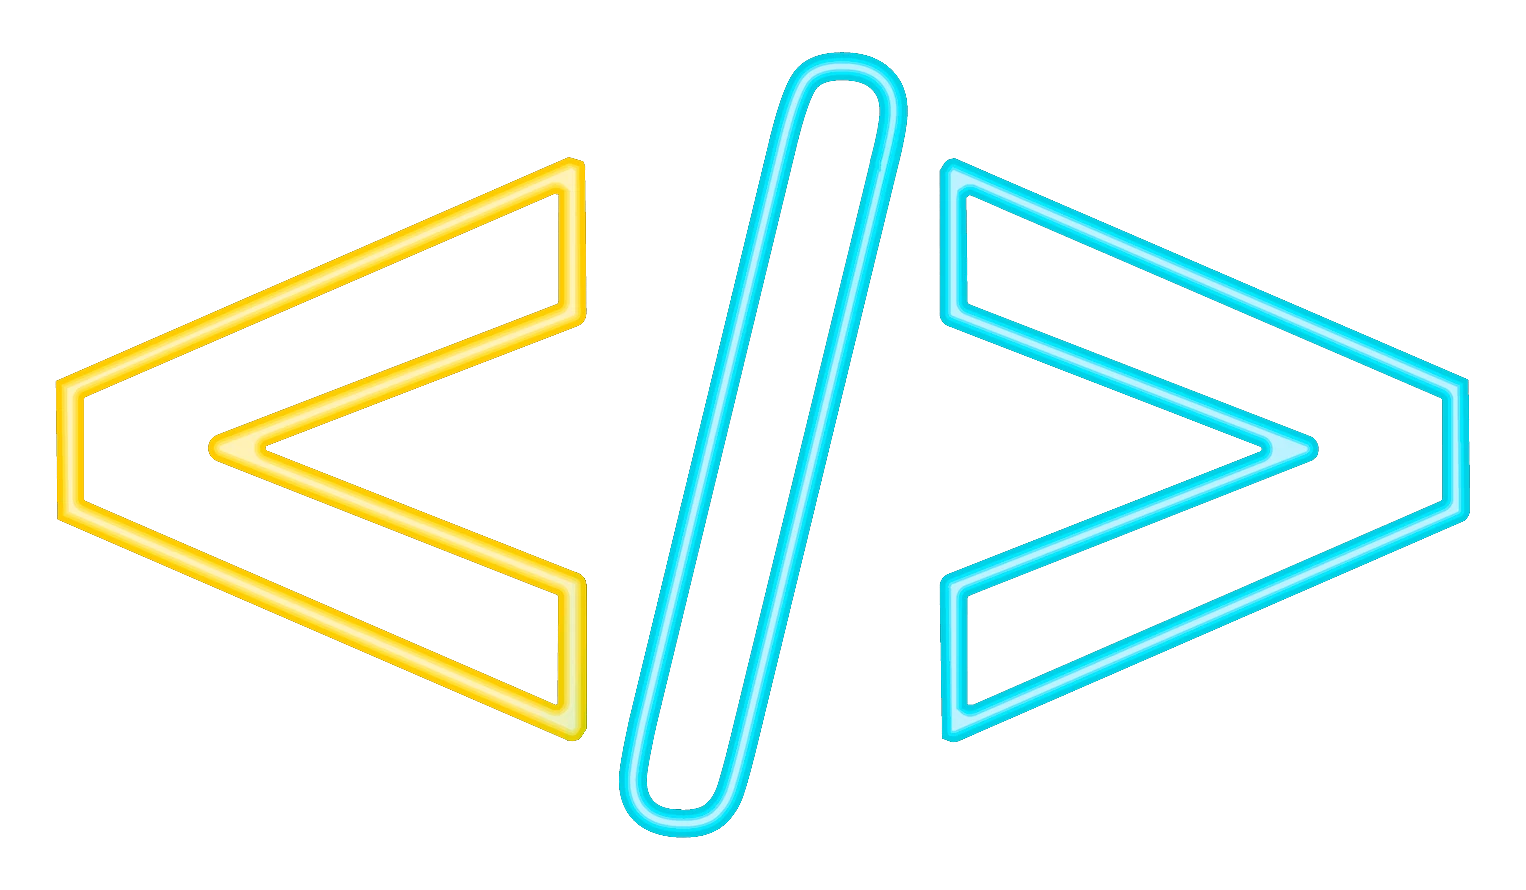
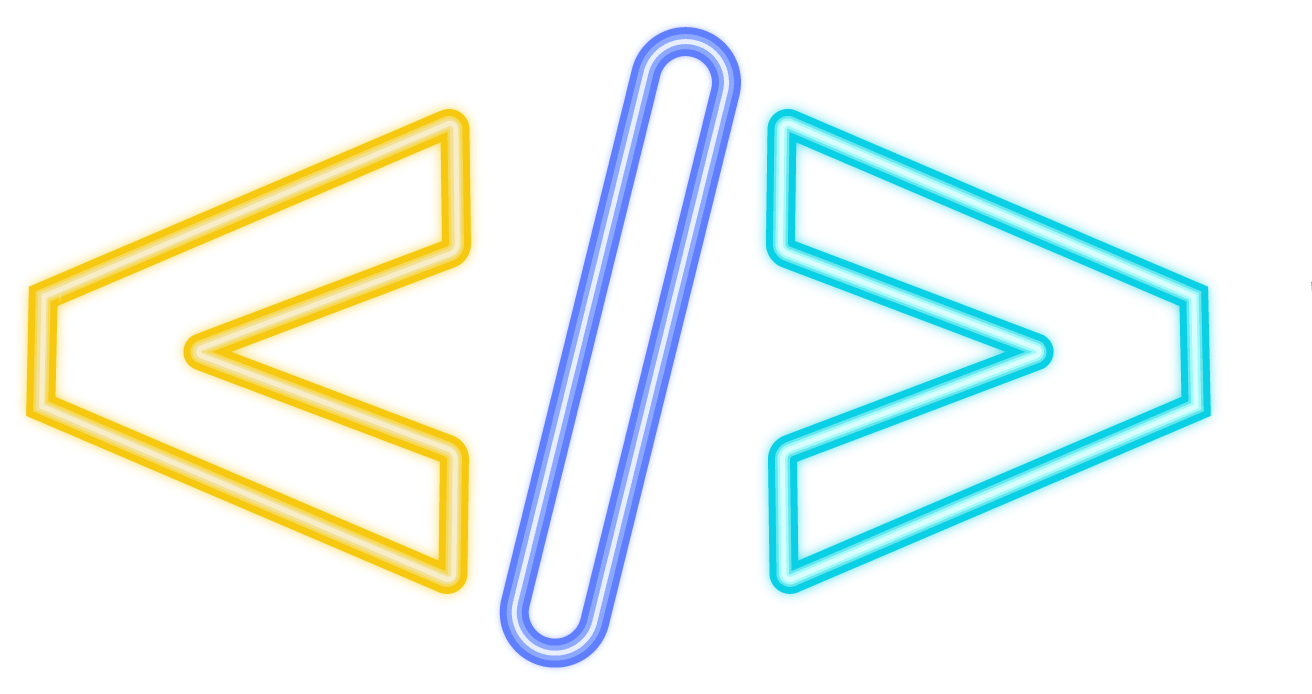
Change main image

Changed region(s): [[0.0, 0.0303, 0.9688, 0.9683]]

diff --git a/style.css b/style.css
@@ -230,11 +230,11 @@ main {
 
     .hero-img {
       margin: 0 auto;
-      width: 40%;
+      width: 50%;
       min-width: 200px;
       object-fit: contain;
       padding-block: 1rem;
-      filter: drop-shadow(0.5rem 0.5rem 0.5rem var(--blue));
+      filter: drop-shadow(0.2rem 0.2rem 0.2rem var(--blue));
     }
   }
 
